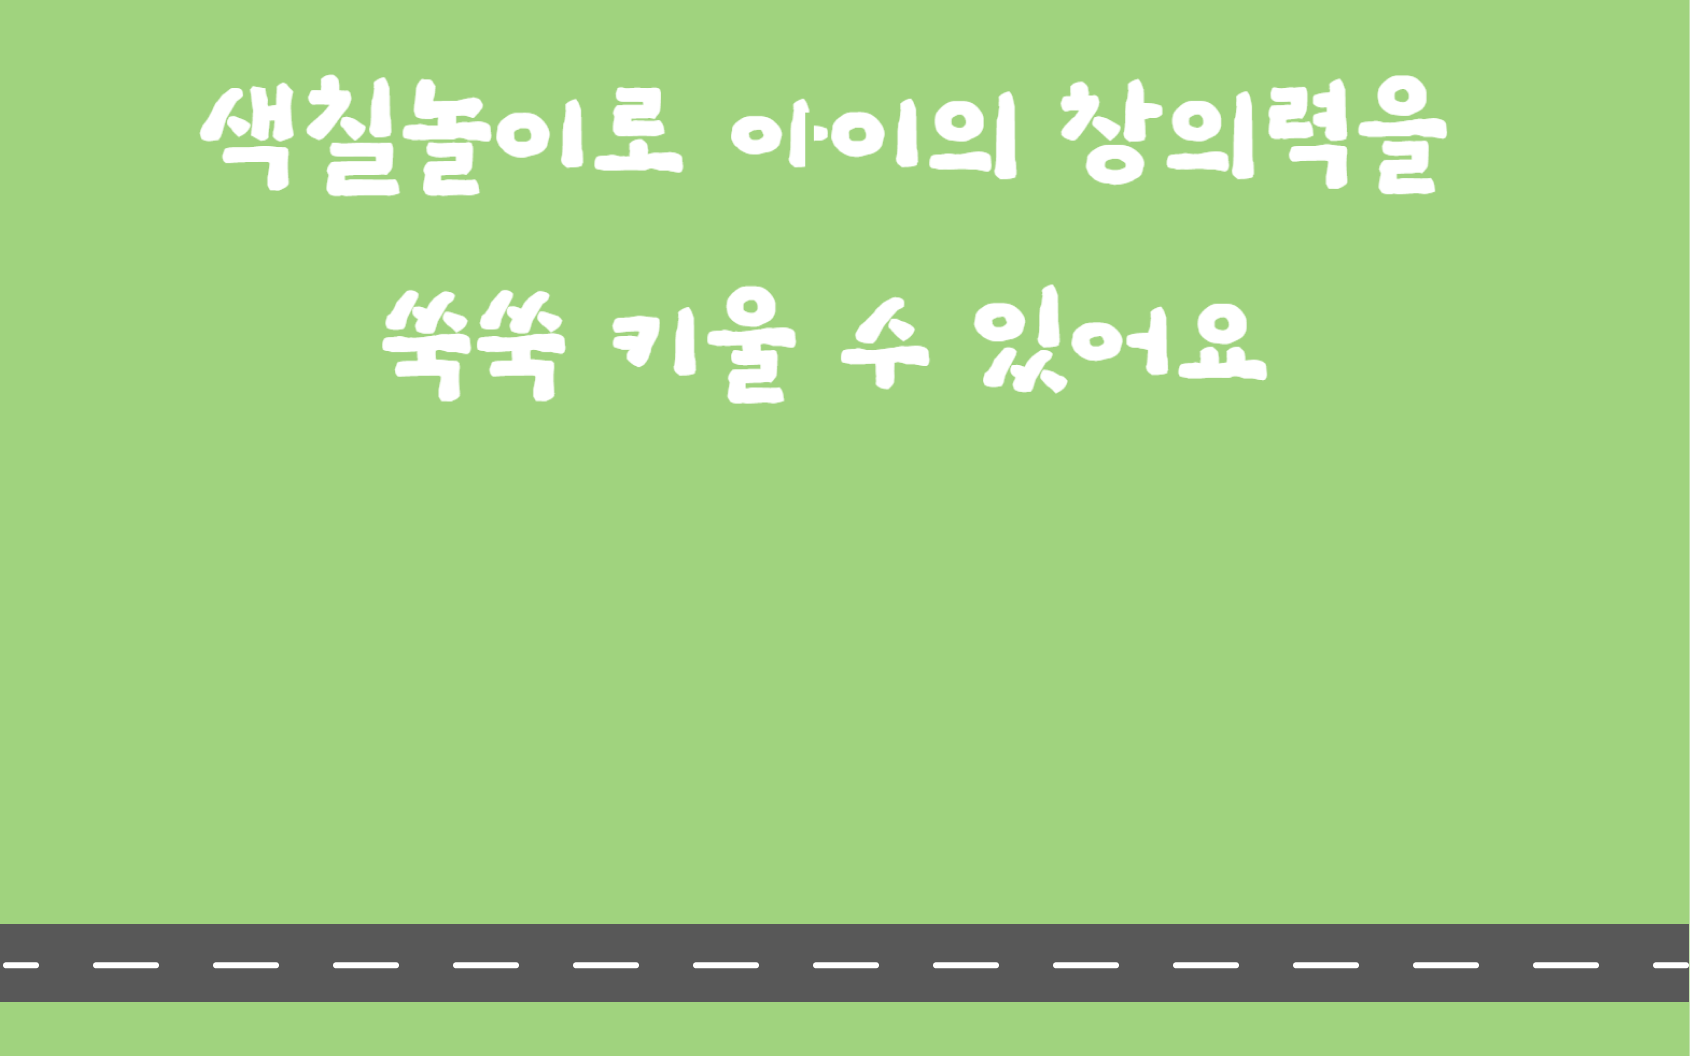
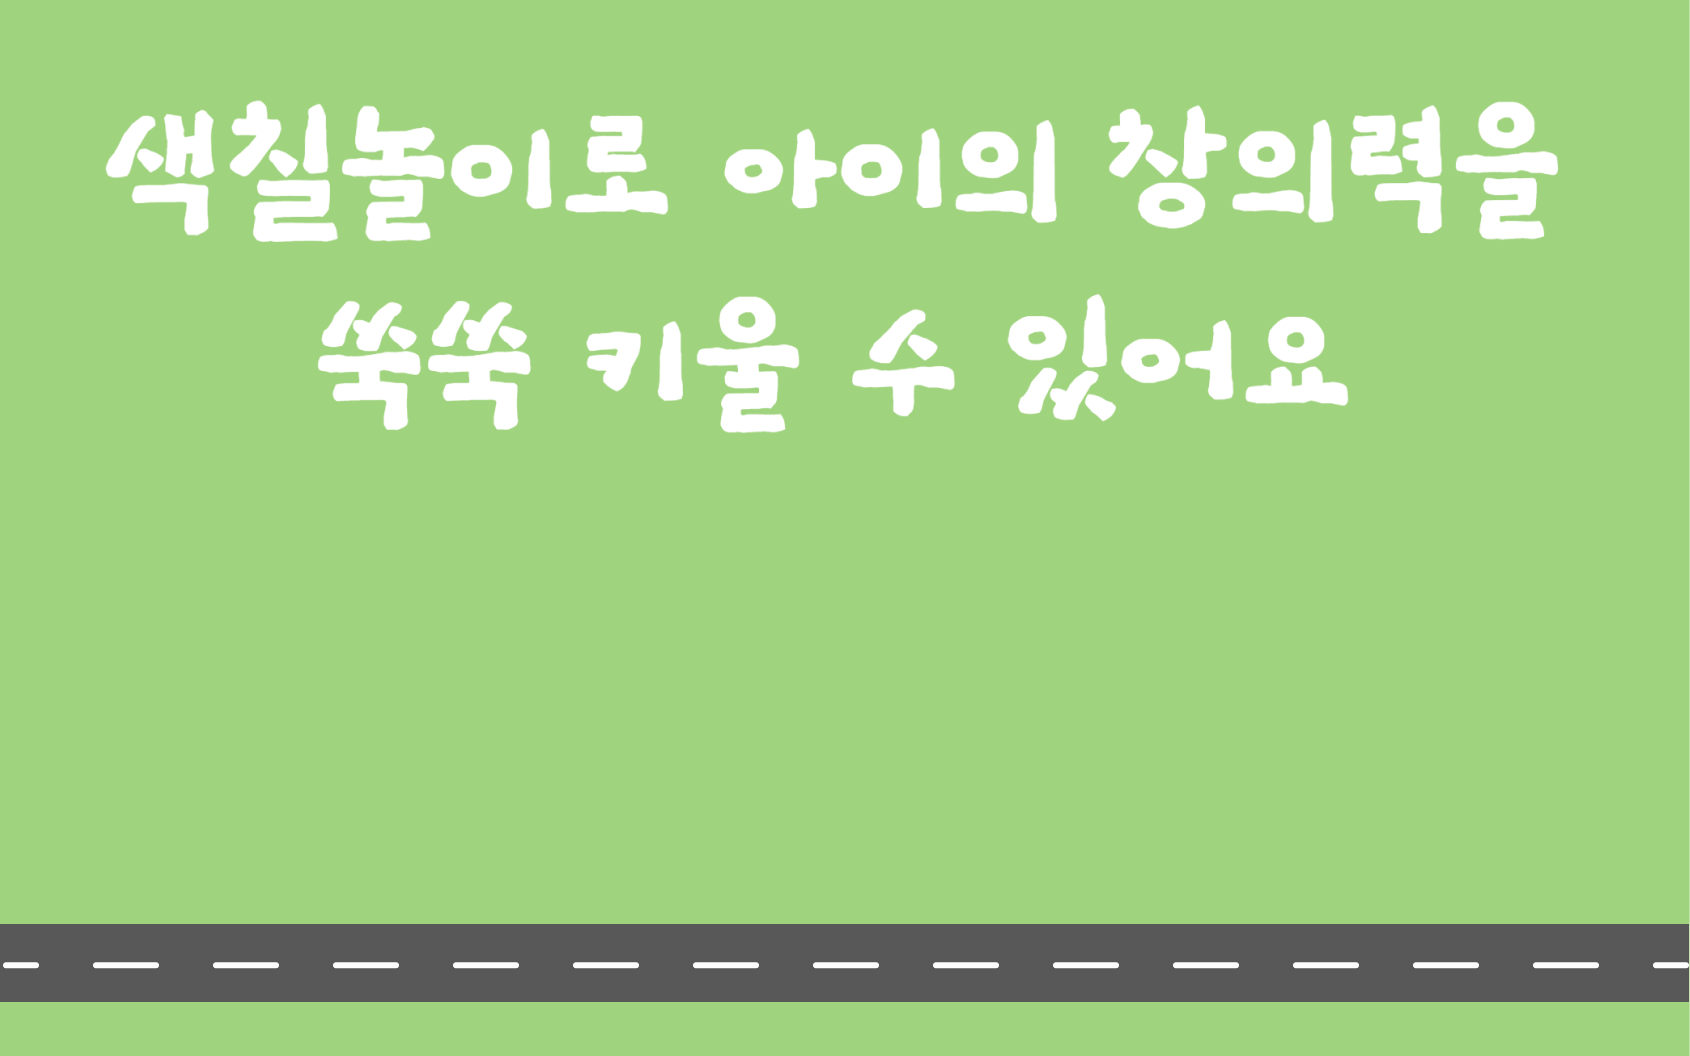
Chore: 랜딩화면 수정중

Changed region(s): [[0.1846, 0.25, 0.8, 0.4375], [0.4308, 0.0625, 0.9231, 0.25], [0.0615, 0.0625, 0.4, 0.25]]

diff --git a/Ddukddak/front/ddukddak/screens/MainRending.tsx b/Ddukddak/front/ddukddak/screens/MainRending.tsx
@@ -134,7 +134,7 @@ const MainRending: React.FC = () => {
       case 2:
         return (
           <ImageBackground
-            source={require('../assets/images/Rendering/Rending2.png')}
+            source={require('../assets/images/Rendering/Rending22.png')}
             style={styles.imageBackground}
           >
             <View>
@@ -157,7 +157,7 @@ const MainRending: React.FC = () => {
       case 3:
         return (
           <ImageBackground
-            source={require('../assets/images/Rendering/Rending3.png')}
+            source={require('../assets/images/Rendering/Rending33.png')}
             style={styles.imageBackground}
           >
             <View>
@@ -180,7 +180,7 @@ const MainRending: React.FC = () => {
       case 4:
         return (
           <ImageBackground
-            source={require('../assets/images/Rendering/Rending4.png')}
+            source={require('../assets/images/Rendering/Rending44.png')}
             style={styles.imageBackground}
           >
             <View>
@@ -230,7 +230,9 @@ const MainRending: React.FC = () => {
           onPress={handlePreviousStep}
           style={[styles.buttonWrapper, styles.backbutton]}
         >
-          <Image source={require('../assets/images/button/back_button.png')} />
+          <Image
+            source={require('../assets/images/button/white_back_button.png')}
+          />
         </TouchableOpacity>
       )}
       {currentStep < 5 && (
@@ -238,7 +240,9 @@ const MainRending: React.FC = () => {
           onPress={handleNextStep}
           style={[styles.buttonWrapper, styles.nextbutton]}
         >
-          <Image source={require('../assets/images/button/next_button.png')} />
+          <Image
+            source={require('../assets/images/button/white_next_button.png')}
+          />
         </TouchableOpacity>
       )}
     </View>
@@ -263,8 +267,11 @@ const styles = StyleSheet.create({
   },
   nextbutton: {
     alignSelf: 'flex-end',
+    resizeMode: 'cover',
     bottom: 300,
-    right: 10,
+    right: 20,
+    // width: 120,
+    // height: 110,
   },
   backbutton: {
     top: 340,
@@ -286,7 +293,7 @@ const styles = StyleSheet.create({
     resizeMode: 'contain',
   },
   centeredImage1: {
-    marginTop: '25%',
+    marginTop: '70%',
     width: '100%',
     height: 350,
     resizeMode: 'contain',
@@ -303,8 +310,9 @@ const styles = StyleSheet.create({
     marginLeft: '5%',
   },
   rendingthree: {
-    marginTop: '4%',
+    marginTop: '24%',
     marginLeft: '5%',
+    transform: [{ rotateZ: '-10deg' }],
   },
   rendingfour: {
     marginTop: '31%',

diff --git a/Ddukddak/front/ddukddak/screens/books/MyCreateBookScreen.tsx b/Ddukddak/front/ddukddak/screens/books/MyCreateBookScreen.tsx
@@ -367,7 +367,8 @@ const styles = StyleSheet.create({
   },
   selectedBook: {
     borderWidth: 5,
-    borderColor: 'rgba(180, 130, 210, 0.5)',
+    borderColor: 'rgba(184, 247, 10, 0.5)',
+    // borderColor: 'rgba(180, 130, 210, 0.5)',
   },
   deleteModeTrashCan: {
     borderWidth: 5,
